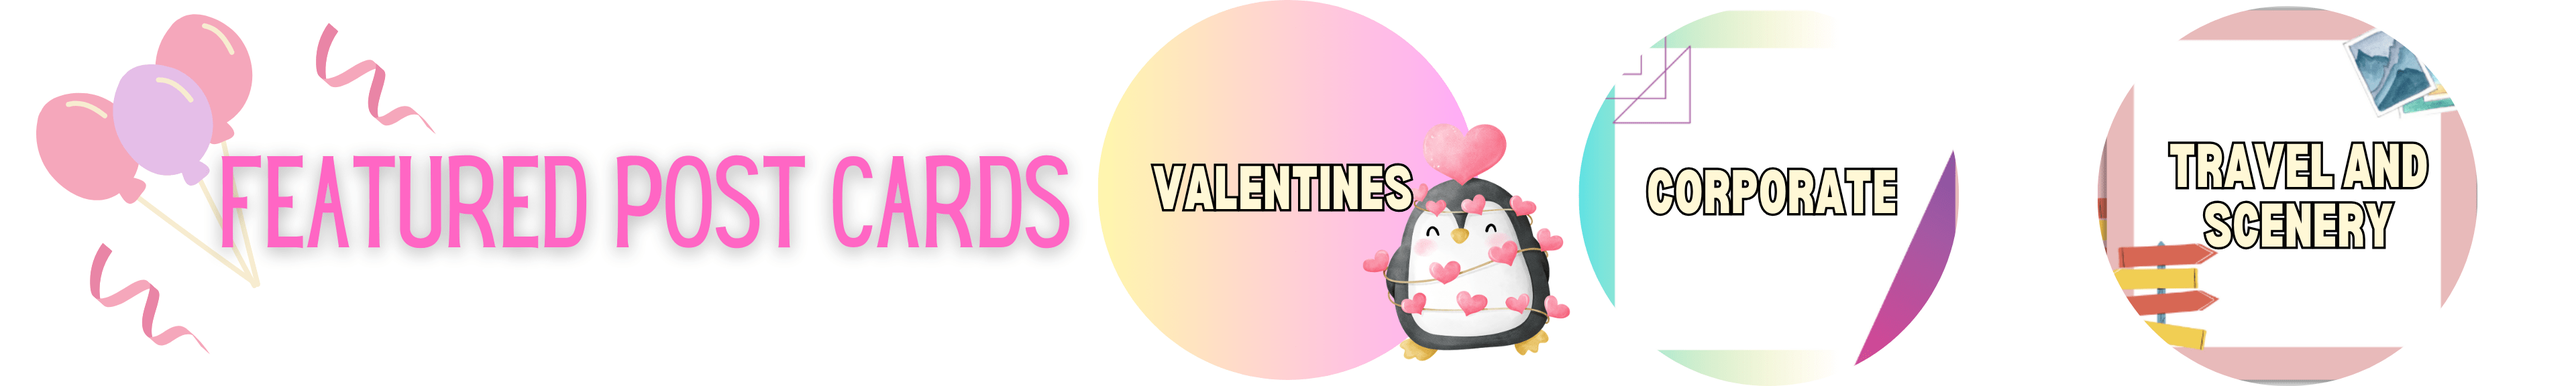
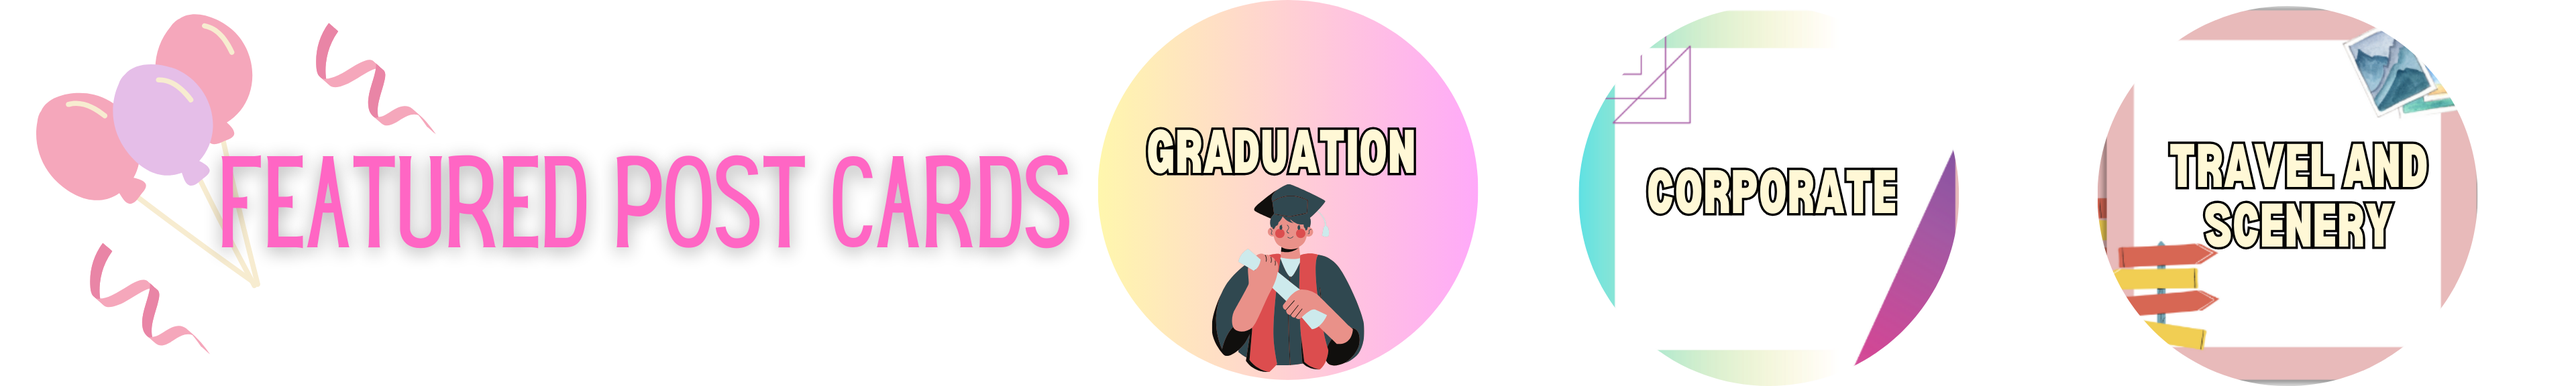
added changes for graduation module

Changed region(s): [[0.4375, 0.3125, 0.625, 0.9688]]

diff --git a/src/app/poetry/poetry.component.html b/src/app/poetry/poetry.component.html
@@ -12,74 +12,70 @@
                 <div class="col-md-12" style="position: relative">
                     <img src="/assets/images/2024/hbd/banner/poetry-s1-min.png">
                     <!-- bday -->
-                    <div style="border:1px solid;height: 54%;
-                    width: 7%;
+                    <div style="
+                    height: 36%;
+                    width: 13%;
                     position: absolute;
                     left: 3.5%;
-                    bottom: 16%;
-                    cursor: pointer;" [routerLink]="['/poetrycards/cnzKJxB2weykD2WSwy3f']"></div>
-                    <div style="border:1px solid;height: 54%;
-                     width: 7%;
-                     position: absolute;
-                     left: 11.5%;
-                     bottom: 16%;
-                     cursor: pointer;" [routerLink]="['/poetrycards/MzbAOpMV9pMtv7KdT32U']"></div>
-                    <div style="border:1px solid;height: 54%;
-                      width: 7%;
-                      position: absolute;
-                      left: 19%;
-                      bottom: 16%;
-                      cursor: pointer;" [routerLink]="['/poetrycards/S61Eo03z4ft27vIhVJaT']"></div>
-                    <div style="border:1px solid;height: 54%;
-                       width: 7%;
-                       position: absolute;
-                       left: 27%;
-                       bottom: 16%;
-                       cursor: pointer;" [routerLink]="['/poetrycards/S61Eo03z4ft27vIhVJaT']"></div>
-                    <!-- valentines -->
-                    <div style="height: 55%;
-                    width: 10%;
-                    position: absolute;
-                    left: 38.3%;
-                    bottom: 16.5%;
-                    background-color: white;" 
-                    ></div>
+                    bottom: 44%;
+                    cursor: pointer;
+                    rotate: 71deg;" [routerLink]="['/card/Gl8t4BbdM3kWILpjzfqo']"></div>
 
-                    <div style="height: 55%;
-                    width: 10%;
+                    <div style="
+                    height: 54%;
+                    width: 9%;
                     position: absolute;
-                    left: 49%;
-                    bottom: 16.8%;
-                    background-color: white;"></div>
+                    left: 15.5%;
+                    bottom: 37%;
+                    cursor: pointer;" [routerLink]="['/card/Ipm0KTgyDgCD8QRABnUl']"></div>
+                    <div style="
+                    height: 54%;
+                    width: 9%;
+                    position: absolute;
+                    left: 26%;
+                    bottom: 36%;
+                    cursor: pointer;
+                    rotate: 10deg;" [routerLink]="['/card/6vgrVcnXWSfTQcUxuCyu']"></div> 
 
-                    <div style=" height: 55%;
+              
+                    <!-- bday -->
+                    <div style="
+                    height: 55%;
+                    width: 9%;
+                    position: absolute;
+                    left: 41.3%;
+                    bottom: 16.5%;"  [routerLink]="['/card/cnzKJxB2weykD2WSwy3f']"></div>
+
+                    <div style="
+                    height: 55%;
+                    width: 9%;
+                    position: absolute;
+                    left: 50%;
+                    bottom: 16.8%;"  [routerLink]="['/card/MzbAOpMV9pMtv7KdT32U']"></div>
+
+                    <div style=" 
+                
+                    height: 55%;
                     width: 10%;
                     position: absolute;
                     left: 59%;
-                    bottom: 16%;
-                    background-color: white;"></div>
+                    bottom: 16%;" [routerLink]="['/card/S61Eo03z4ft27vIhVJaT']"></div>
 
-                    <div style="height: 20%;
-                        width: 20%;
-                        position: absolute;
-                        left: 40%;
-                        bottom: 1%;
-                        background-color: white;">
-                    </div>
+                   
 
                     <!-- wedding -->
                     <div style=" height: 53%;
                     width: 10%;
                     position: absolute;
                     left: 74.2%;
-                    bottom: 16%;
+                    bottom: 3%;
                     cursor: pointer;" [routerLink]="['/card/CJdNcIX7t8LodHXqnRpI']"></div>
 
                     <div style=" height: 53%;
                       width: 10%;
                       position: absolute;
                       left: 85%;
-                      bottom: 16%;
+                      bottom: 3%;
                       cursor: pointer;" [routerLink]="['/card/nj9B7qbT8OwLHDNs6Wie']"></div>
                 </div>
             </div>

diff --git a/src/app/home/home.component.html b/src/app/home/home.component.html
@@ -70,7 +70,6 @@
             </div>
             -->
             <div class="row">
-                <!--
                 <div class="col-md-12" style="position: relative;">
                     <img src="/assets/images/2024/hbd/home/h4-min.png" style="width:100%" alt="hw05" title="hw05">
 
@@ -80,7 +79,7 @@
                     right: 84.3%;
                     bottom: 28%;
                     transform: rotate(-4deg);
-                    cursor: pointer;" [routerLink]="['/card/As8hgbSeX7D6J9Gmxyt1']"></div>
+                    cursor: pointer;" [routerLink]="['/card/4hO4FfegEWc6H5A7twWa']"></div>
 
                     <div style=" height: 41%;
                     width: 11%;
@@ -88,7 +87,7 @@
                     right: 73.3%;
                     bottom: 10%;
                     transform: rotate(2deg);
-                    cursor: pointer;" [routerLink]="['/card/62PLjncDMvHtdvTbPOdC']"></div>
+                    cursor: pointer;" [routerLink]="['/card//card/4Y629bmwcSB6oFFB0s4U']"></div>
 
                     <div style=" height: 34%;
                     width: 10%;
@@ -96,7 +95,7 @@
                     right: 62.3%;
                     bottom: 24%;
                     transform: rotate(-4deg);
-                    cursor: pointer;" [routerLink]="['/card/2j1VsXPtPmxwOB9Am4YI']"></div>
+                    cursor: pointer;" [routerLink]="['/card/1YyyDrDetmjdErdkQfe3']"></div>
 
                     <div style=" height: 36%;
                     width: 10%;
@@ -104,14 +103,14 @@
                     right: 53%;
                     bottom: 30%;
                     transform: rotate(6deg);
-                    cursor: pointer;" [routerLink]="['/card/0EFLMZnnXaC6HwaHuQOc']"></div>
+                    cursor: pointer;" [routerLink]="['/card/5remOWuQGIsHd8i0nUQ6']"></div>
 
-                    <div style=" height:8%;
+                    <div style="    height: 8%;
                     width: 20%;
                     position: absolute;
-                    right: 63%;
-                    bottom: 61%;
-                    cursor: pointer;" [routerLink]="['/cards/event/MSiojG3mnfhUjmABtOpi']"></div>
+                    right: 71%;
+                    bottom: 6%;
+                    cursor: pointer;" [routerLink]="['/cards/event/7TrEt1o2415ST4CU7sy7']"></div>
 
                     <div style=" height: 35%;
                      width: 10%;
@@ -139,7 +138,6 @@
                     bottom: 9%;
                     cursor: pointer;" [routerLink]="['/cards/event/aRQdu4FYb4rASkDhbQmZ']"></div>
                 </div>
-                -->
             </div>
             <div class="row">
                 <div class="col-md-12" style="position: relative;">

diff --git a/src/app/postcards/postcards.component.html b/src/app/postcards/postcards.component.html
@@ -7,12 +7,12 @@
                     <img src="/assets/images/2024/hbd/banner/postcard-min.png">
                     <br /> <br />
                     <div style="position:relative">
-                        <div style="height: 100%; width: 20%; position: absolute; left: 42%; bottom: 0%; background-color: white;"></div>
+                        <!-- <div style="height: 100%; width: 20%; position: absolute; left: 42%; bottom: 0%; background-color: white;"></div> -->
                         <img src="/assets/images/2024/hbd/banner/postcard-s1-min.png">
-                        <!--
-                            <div style="height: 100%;width: 16%; position: absolute; left: 42%; bottom: 0%;cursor: pointer;"
-                            [routerLink]="['/cards/event/6PYnxDpXuOJ6wktkQHfO']"></div>
-                        -->
+                        
+                            <div style="height: 100%;width: 16%; position: absolute; left: 42%; bottom: 0%;cursor: pointer;"></div>
+                            <!-- [routerLink]="['/cards/event/6PYnxDpXuOJ6wktkQHfO']"> -->
+                       
                         <div style="height: 100%;width: 16%; position: absolute; left: 61%; bottom: 0%;cursor: pointer;"
                             [routerLink]="['/cards/event/WdxuRQ3LKRc2KDDDmB6H']"></div>
                         <div style="height: 100%;width: 16%; position: absolute; right: 3%; bottom: 0%;cursor: pointer;"

diff --git a/src/app/events/events.component.html b/src/app/events/events.component.html
@@ -11,14 +11,14 @@
             </div>
             <div class="row">
                 <div class="col-md-12" style="position: relative">
-                    <div style="height: 100%; width: 17%; position: absolute; left: 57.5%; bottom: 0%; background-color: white;"></div><!--valentines -->
+                   
                     <img src="/assets/images/2024/hbd/banner/event-s1-min.png">
                     <div style="height: 100%; width: 17%; position: absolute; left: 40%; bottom: 0%; cursor: pointer;"
-                        [routerLink]="['/cards/event/A9hXPgJP4YIjJTYusiSS']"></div><!--bday -->
-                    <!-- 
+                        [routerLink]="['/cards/event/7TrEt1o2415ST4CU7sy7']"></div>
+                    
                     <div style="height: 100%; width: 17%; position: absolute; left: 59.5%; bottom: 0%; cursor: pointer;"
-                         [routerLink]="['/cards/event/MSiojG3mnfhUjmABtOpi']"></div>
-                    --><!--valentines -->
+                         [routerLink]="['/cards/event/A9hXPgJP4YIjJTYusiSS']"></div><!--bday -->
+            
                     <div style="height: 100%; width: 18%; position: absolute; left: 78.5%; bottom: 0%; cursor: pointer;"
                         [routerLink]="['/cards/event/aRQdu4FYb4rASkDhbQmZ']"></div><!--wedding -->
                 </div>
